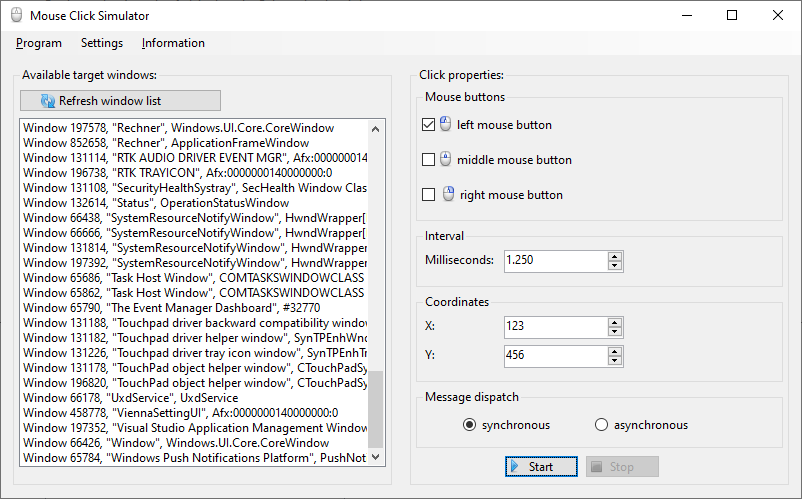
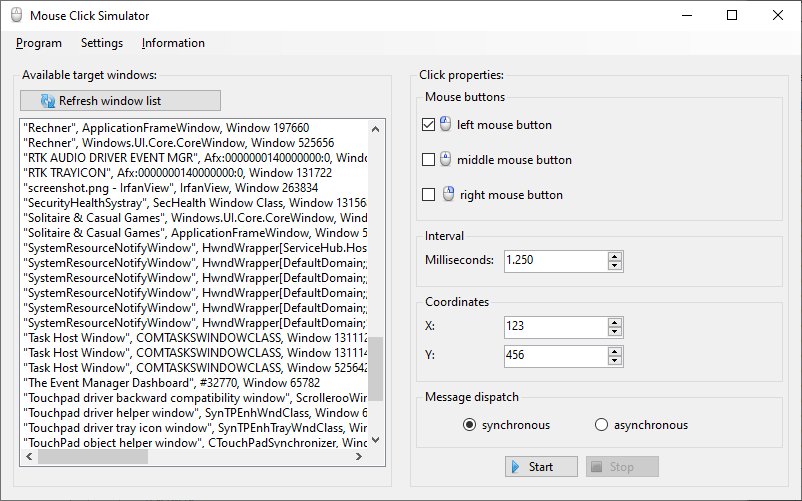
update screenshot of GUI

diff --git a/readme.md b/readme.md
@@ -3,7 +3,7 @@
 Mouse Click Simulator is a Windows Forms application that can be used to
 simulate mouse clicks on any desktop window easily.
 
-![Main window of Mouse Click Simulator, v0.3.0.](./screenshot.png "GUI of the program.")
+![Main window of Mouse Click Simulator, v0.4.1.](./screenshot.png "GUI of the program.")
 
 ## Prerequisites
 
